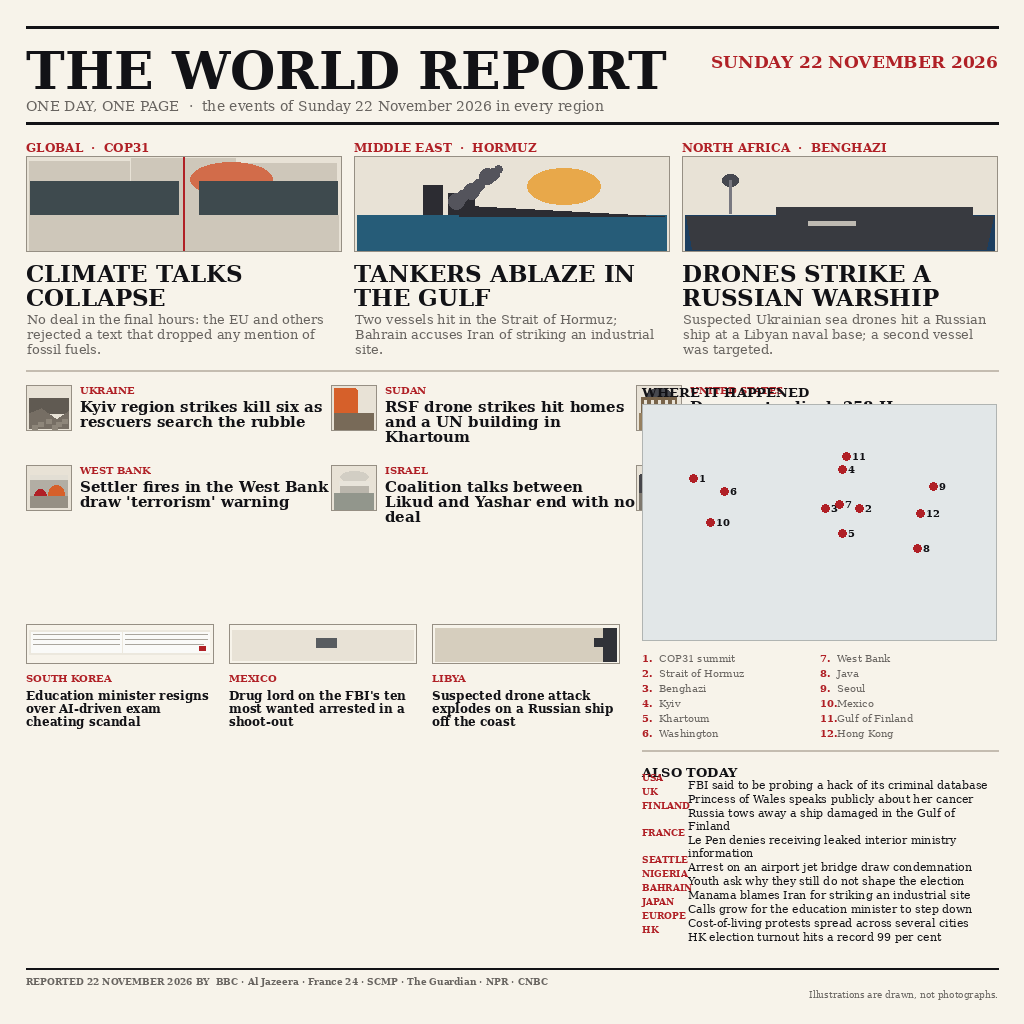
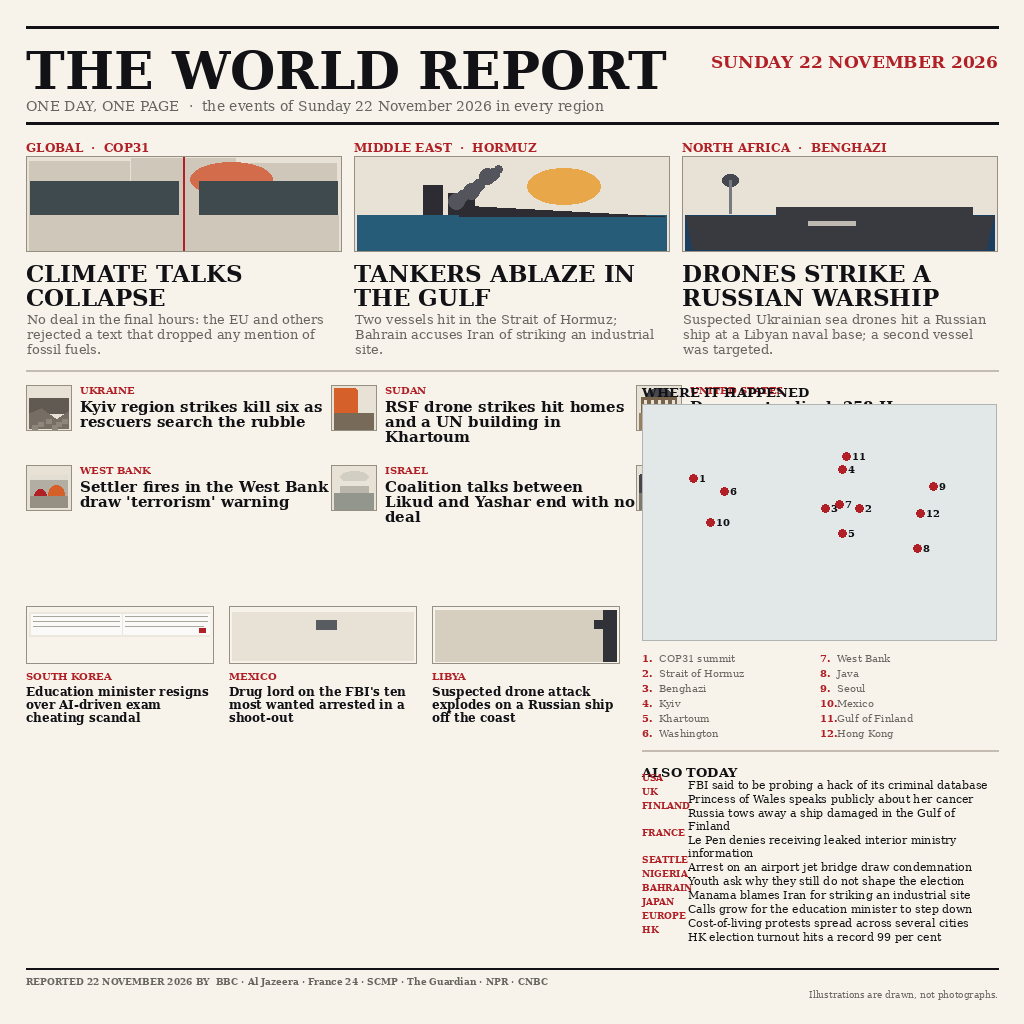
Fill the third panel row: larger vignettes clear of the map column

Changed region(s): [[0.0312, 0.5938, 0.5938, 0.7188], [0.4062, 0.5938, 0.625, 0.625], [0.0312, 0.5938, 0.2188, 0.625]]

diff --git a/gen.py b/gen.py
@@ -256,10 +256,13 @@ def _panels(img, d, fonts):
             _para(d, (x + 54, img_y + 12), _fit(d, headline, bold15, 250, 3), bold15, INK, 15)
     for c in range(3):
         region, headline, key = PANELS[6 + c]
+        # 186px columns across the left area; the vignette and its two text lines sit
+        # between the second panel row and the footer, clear of the map panel on the right.
         x = MARGIN + c * 203
-        _illo(img, (x, 630 + OFF["wide_dy"], x + 188, 670 + OFF["wide_dy"]), key, 300 + c)
-        d.text((x, 678 + OFF["wide_dy"]), region, font=bold10, fill=RED)
-        _para(d, (x, 694 + OFF["wide_dy"]), _fit(d, headline, bold12, 185, 3), bold12, INK, 13)
+        vy = 612 + OFF["wide_dy"]
+        _illo(img, (x, vy, x + 188, vy + 58), key, 300 + c)
+        d.text((x, vy + 64), region, font=bold10, fill=RED)
+        _para(d, (x, vy + 78), _fit(d, headline, bold12, 185, 3), bold12, INK, 13)
 
 
 def _map(d, fonts):
